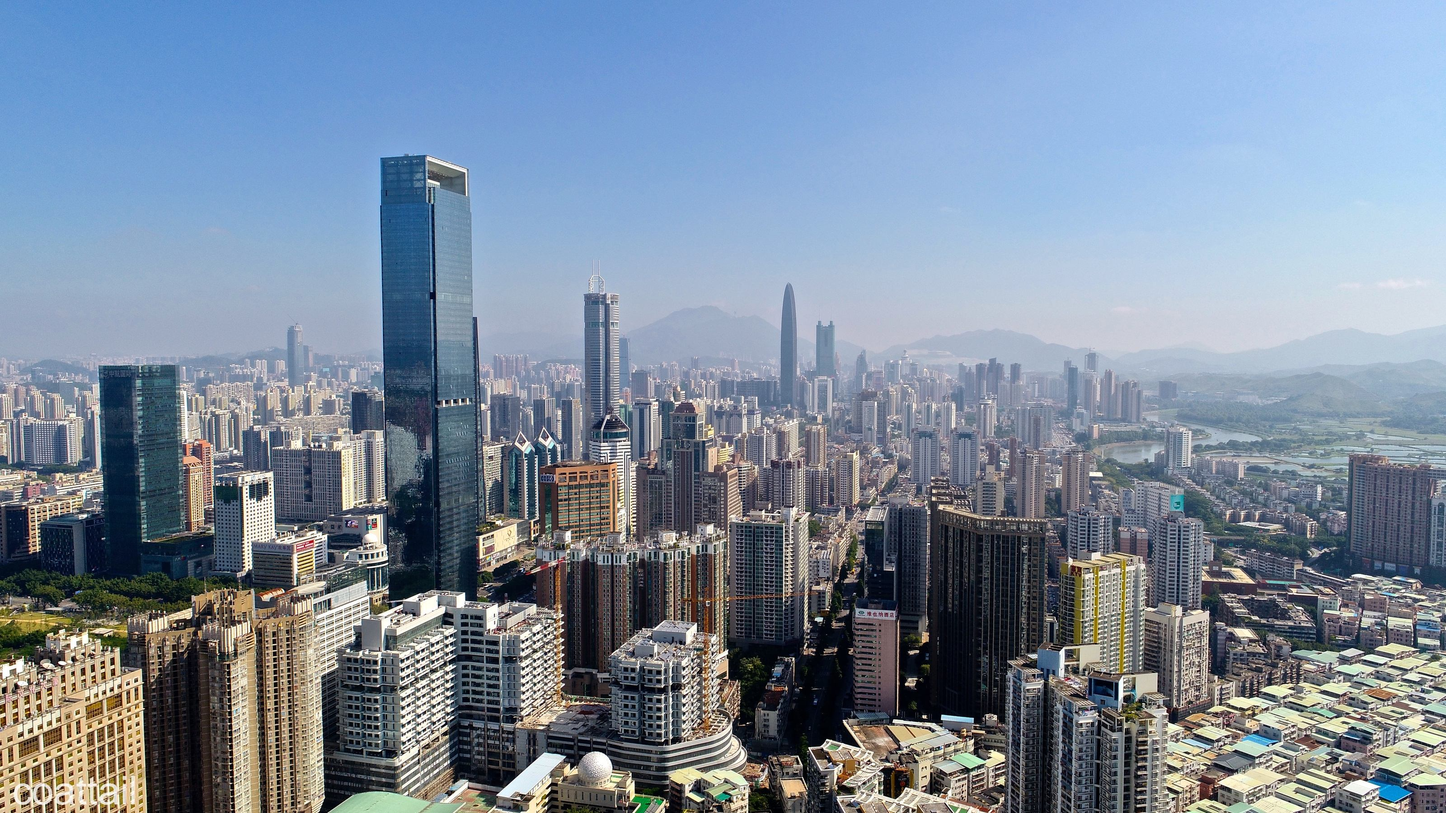
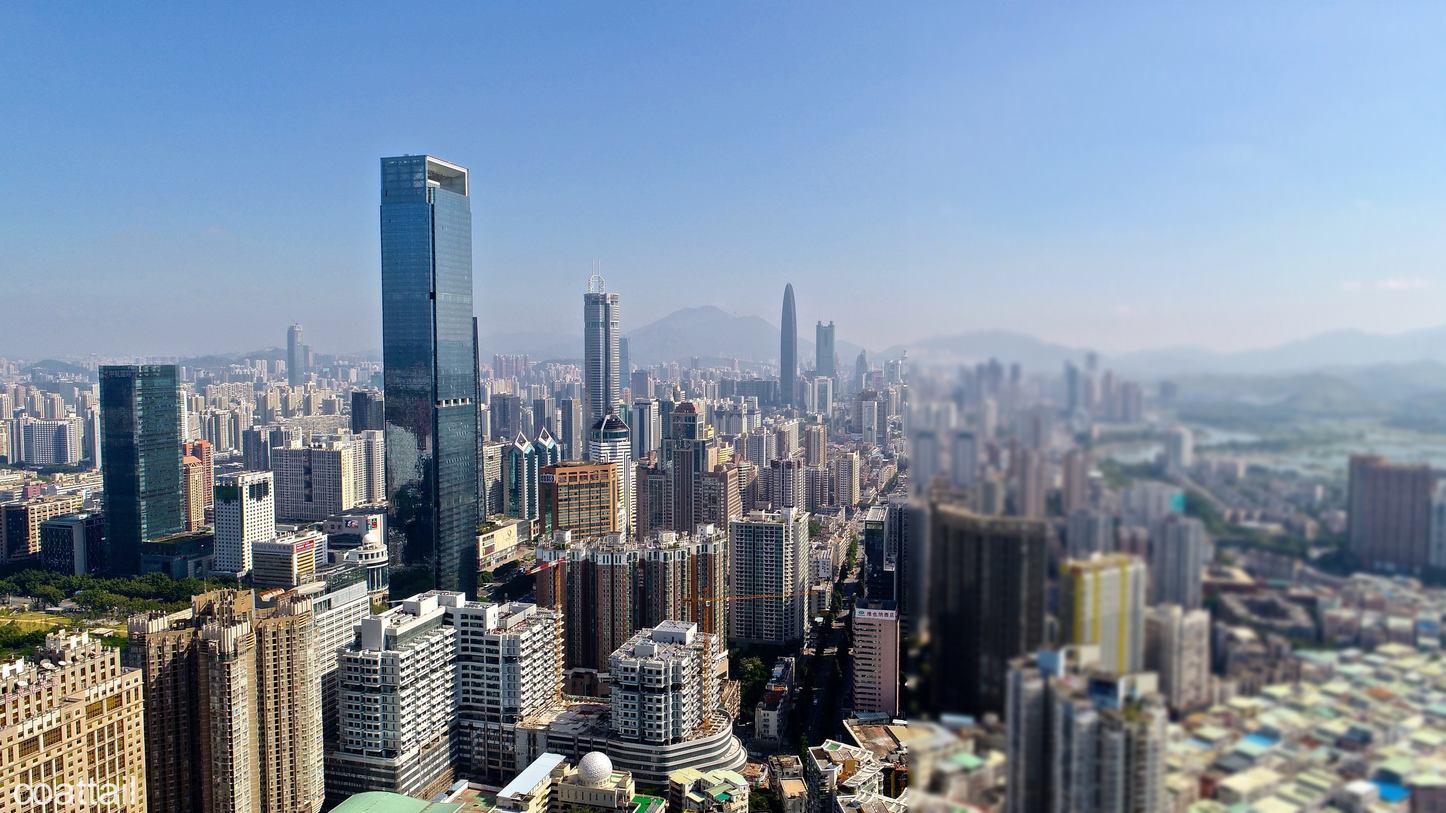
登录页面背景图高斯模糊，添加logo

Changed region(s): [[0.625, 0.4667, 1.0, 1.0]]

diff --git a/src/views/login/index.vue b/src/views/login/index.vue
@@ -1,92 +1,93 @@
 <template>
   <div class="login-container">
-    <div class="aside">
-      <el-form
-        ref="loginForm"
-        :model="loginForm"
-        :rules="loginRules"
-        class="login-form"
-        autocomplete="on"
-        label-position="left"
-      >
-        <div class="title-container">
-          <h3 class="title">
-            深圳市坪山区民生诉求数据分析系统
-          </h3>
-        </div>
+    <a class="logo" href="http://www.szpsq.gov.cn/" target="_blank">
+      <img class="logo-img" src="./components/坪山区人民政府.png" alt="坪山区人民政府">
+    </a>
+    <el-form
+      ref="loginForm"
+      :model="loginForm"
+      :rules="loginRules"
+      class="login-form"
+      autocomplete="on"
+      label-position="left"
+    >
+      <div class="title-container">
+        <h3 class="title">
+          深圳市坪山区民生诉求数据分析系统
+        </h3>
+      </div>
 
-        <el-form-item prop="username">
+      <el-form-item prop="username">
+        <span class="svg-container">
+          <svg-icon icon-class="user" />
+        </span>
+        <el-input
+          ref="username"
+          v-model="loginForm.username"
+          placeholder="Username"
+          name="username"
+          type="text"
+          tabindex="1"
+          autocomplete="on"
+        />
+      </el-form-item>
+
+      <el-tooltip
+        v-model="capsTooltip"
+        content="Caps lock is On"
+        placement="right"
+        manual
+      >
+        <el-form-item prop="password">
           <span class="svg-container">
-            <svg-icon icon-class="user" />
+            <svg-icon icon-class="password" />
           </span>
           <el-input
-            ref="username"
-            v-model="loginForm.username"
-            placeholder="Username"
-            name="username"
-            type="text"
-            tabindex="1"
+            :key="passwordType"
+            ref="password"
+            v-model="loginForm.password"
+            :type="passwordType"
+            placeholder="Password"
+            name="password"
+            tabindex="2"
             autocomplete="on"
+            @keyup.native="checkCapslock"
+            @blur="capsTooltip = false"
+            @keyup.enter.native="handleLogin"
           />
+          <span
+            class="show-pwd"
+            @click="showPwd"
+          >
+            <svg-icon :icon-class="passwordType === 'password' ? 'eye' : 'eye-open'" />
+          </span>
         </el-form-item>
+      </el-tooltip>
 
-        <el-tooltip
-          v-model="capsTooltip"
-          content="Caps lock is On"
-          placement="right"
-          manual
-        >
-          <el-form-item prop="password">
-            <span class="svg-container">
-              <svg-icon icon-class="password" />
-            </span>
-            <el-input
-              :key="passwordType"
-              ref="password"
-              v-model="loginForm.password"
-              :type="passwordType"
-              placeholder="Password"
-              name="password"
-              tabindex="2"
-              autocomplete="on"
-              @keyup.native="checkCapslock"
-              @blur="capsTooltip = false"
-              @keyup.enter.native="handleLogin"
-            />
-            <span
-              class="show-pwd"
-              @click="showPwd"
-            >
-              <svg-icon :icon-class="passwordType === 'password' ? 'eye' : 'eye-open'" />
-            </span>
-          </el-form-item>
-        </el-tooltip>
+      <el-button
+        :loading="loading"
+        type="primary"
+        style="width:100%;margin-bottom:30px;"
+        @click.native.prevent="handleLogin(loginForm)"
+      >
+        登录
+      </el-button>
 
-        <el-button
-          :loading="loading"
-          type="primary"
-          style="width:100%;margin-bottom:30px;"
-          @click.native.prevent="handleLogin(loginForm)"
-        >
-          登录
-        </el-button>
+      <!-- <div style="position:relative">
+          <div class="tips">
+            <span>Username : admin</span>
+            <span>Password : any</span>
+          </div>
+          <div class="tips">
+            <span style="margin-right:18px;">Username : editor</span>
+            <span>Password : any</span>
+          </div>
 
-        <!-- <div style="position:relative">
-            <div class="tips">
-              <span>Username : admin</span>
-              <span>Password : any</span>
-            </div>
-            <div class="tips">
-              <span style="margin-right:18px;">Username : editor</span>
-              <span>Password : any</span>
-            </div>
-
-            <el-button class="thirdparty-button" type="primary" @click="showDialog=true">
-              Or connect with
-            </el-button>
-          </div> -->
-      </el-form>
-    </div>
+          <el-button class="thirdparty-button" type="primary" @click="showDialog=true">
+            Or connect with
+          </el-button>
+        </div> -->
+    </el-form>
 
     <el-dialog
       title="Or connect with"
@@ -322,24 +323,11 @@ $dark_gray:#889aa4;
 $dark_blue: rgb(13, 76, 119);
 $word_col: $dark_blue;
 
-/*.aside {
-  position: absolute;
-  top: 0;
-  right: 0;
-  width: 36%;
-  bottom: 0;
-  transition: {
-    transition-property: width;
-    transition-duration: 0.3s;
-    transition-timing-function: ease-out;
-    transition-delay: 0s;
-  }
-}*/
 .login-container {
   min-height: 100%;
   width: 100%;
   //background-color: $bg;
-  background: url("./components/backgroundImage1.jpg") no-repeat center;
+  background: url("./components/backgroundImage1_gauss.jpg") no-repeat center;
   background-size: cover; //覆盖整个页面
   position: absolute;
   overflow: hidden;
@@ -428,4 +416,11 @@ $word_col: $dark_blue;
     }
   }
 }
+
+.logo {
+  margin-left: 3%;
+  position: absolute;
+  top: 3%
+}
+
 </style>
